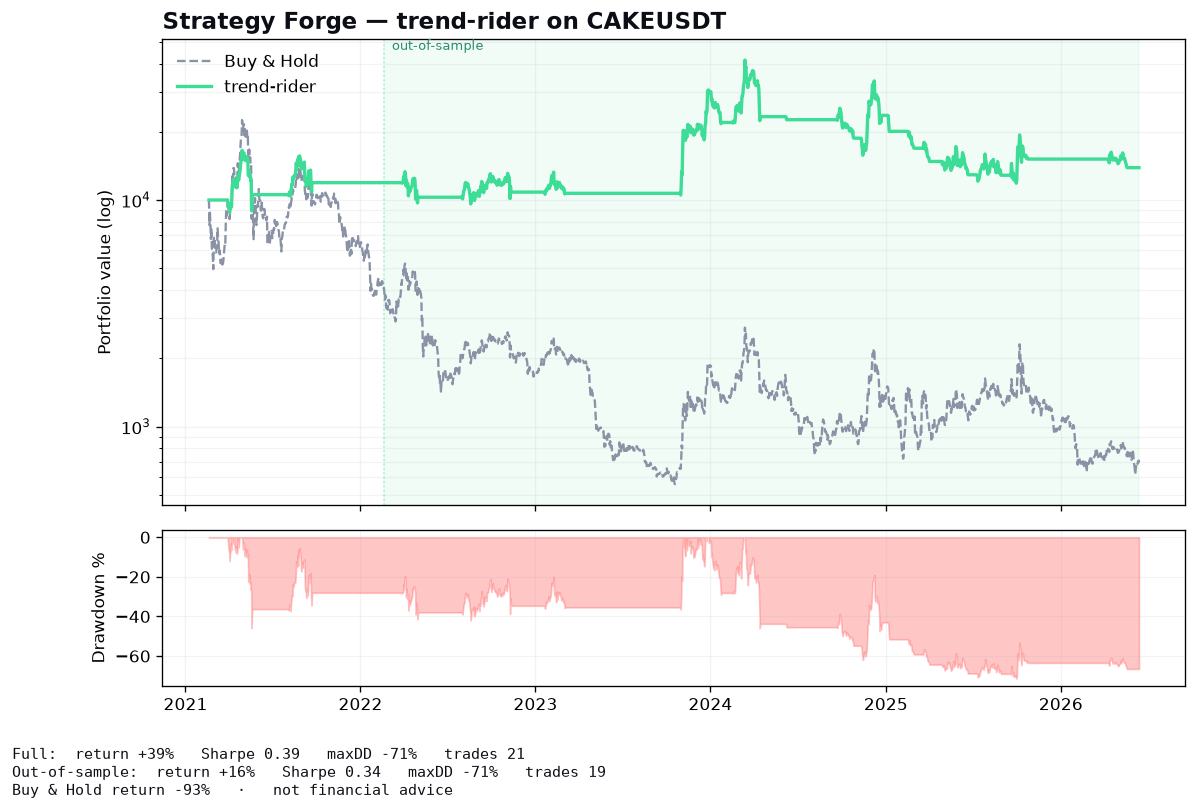
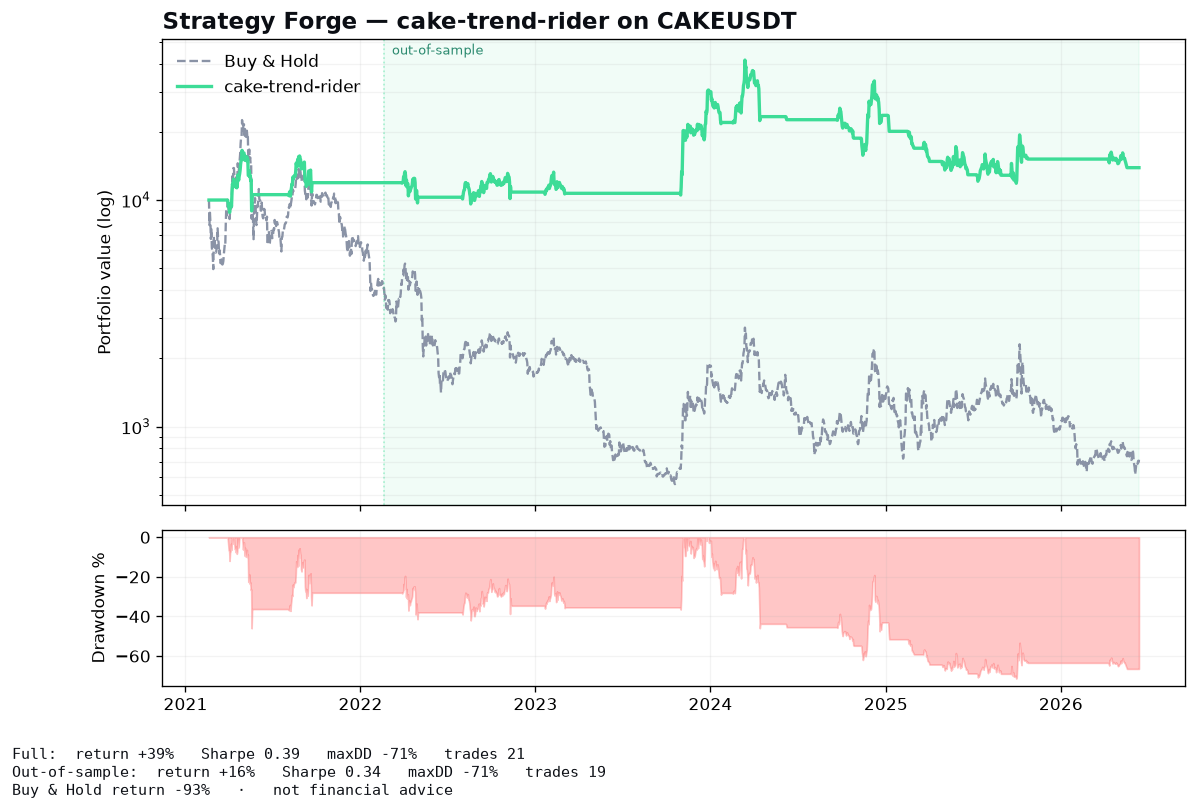
docs: real-numbers README + AI Build Log; fix make demo; add CAKE asset
Fix Makefile demo/backtest targets (referenced a non-existent spec). Add
assets/cake-trend-rider.json so the headline CAKE result is reproducible.
README with verified metrics, embedded tearsheets, coverage, and AI Build Log.
Doc accuracy fixes; mark python-coinmarketcap optional.

Changed region(s): [[0.34, 0.0, 0.68, 0.0924], [0.1855, 0.0924, 0.3091, 0.1232]]

diff --git a/README.md b/README.md
@@ -7,84 +7,137 @@
 </p>
 
 <p align="center">
-  <i>BNB Hack: AI Trading Agent Edition — Track 2 (Strategy Skills) · zero-cost · 100% reproducible</i>
+  <i>BNB Hack: AI Trading Agent Edition — Track 2 (Strategy Skills) · zero-cost · 100% reproducible · 91 tests</i>
 </p>
 
 ---
 
 ## What it is
 
-Strategy Forge is a **CoinMarketCap Agent-Hub Skill** that turns a natural-language
-trading idea into a **structured, backtestable strategy spec**, then runs a real
-[vectorbt](https://github.com/polakowo/vectorbt) backtest on historical market data
-— with walk-forward validation, transaction costs, and an honest equity/drawdown
-tearsheet. You don't write quant code; you describe intent and get evidence.
+Strategy Forge is a **CoinMarketCap Agent-Hub Skill**. You describe a trading idea; the
+Skill compiles it into a structured, validated **strategy spec**, runs a real
+[vectorbt](https://github.com/polakowo/vectorbt) backtest with **walk-forward
+validation, transaction costs, and look-ahead-safe execution**, and returns an equity
+curve, Sharpe / Sortino / Calmar / max-drawdown, and an honest out-of-sample verdict.
+You don't write quant code — you describe intent and get evidence.
 
-> "Build me a drawdown-safe BNB momentum strategy that backs off in extreme greed."
-> → compiled spec → backtest → equity curve + Sharpe / max-drawdown, benchmarked
-> against a naive baseline it beats.
+```text
+"Build me a trend-following BNB strategy that sizes down when volatility spikes."
+  → compiled StrategySpec → walk-forward backtest → tearsheet + out-of-sample stats
+```
+
+## Results that tell the real story
+
+Every number below is **walk-forward, cost-adjusted, and reproducible with no API key**
+(`make demo`). We don't cherry-pick — we show what each strategy actually does.
+
+| Strategy | Asset | Total return | Sharpe | Max DD | Out-of-sample | Buy & Hold |
+|---|---|---:|---:|---:|---:|---:|
+| **trend-rider** | BNB | **+840%** | 1.03 | −58% | +52% | +1514% |
+| **trend-rider** | CAKE | **+39%** | 0.39 | −71% | +16% | **−93%** 💀 |
+| regime-guard | CAKE | +13% | 0.22 | −54% | +13% | −93% |
+| fgi-contrarian *(baseline)* | BNB | −83% | −0.32 | −84% | — | +1514% |
+
+**The point isn't "beat buy-and-hold on a 15× bull."** It's *risk discipline*: the same
+trend-rider strategy captured most of BNB's bull at far lower drawdown — and on CAKE,
+which **collapsed 93%**, it *made +39%* by exiting the downtrend. That's the difference
+between a profit and near-total loss.
+
+<p align="center">
+  <img src="examples/cake-trend-rider.png" width="78%" alt="trend-rider on CAKE: +39% while buy-and-hold fell 93%"><br>
+  <sub><b>CAKE:</b> the same strategy makes +39% while buy-and-hold rides to −93%.</sub>
+</p>
+
+<p align="center">
+  <img src="examples/trend-rider.png" width="78%" alt="trend-rider on BNB: +840%, Sharpe 1.03"><br>
+  <sub><b>BNB:</b> captures the bull (+840%, Sharpe 1.03) and sits in cash through the 2022 bear.</sub>
+</p>
 
 ## Why it's different
 
-- **A strategy *generator*, not one hard-coded strategy.** Intent → spec → backtest.
-  The **StrategySpec** is the keystone: human-readable, machine-runnable, and (future)
-  a live-agent config.
+- **A strategy *generator*, not one hard-coded strategy.** Intent → spec → backtest. The
+  **StrategySpec** is the keystone: human-readable, machine-runnable, and (future) a live-agent config.
 - **Rigor over cherry-picking.** Walk-forward / out-of-sample splits, realistic costs,
-  and overfit checks — so the numbers survive a skeptical judge re-running them.
+  and a one-bar execution shift so *every* signal is look-ahead safe. Metrics are derived
+  from the equity curve, so anyone can recompute them.
 - **100% keyless & reproducible.** Backtests pull from public, keyless sources
   (`data-api.binance.vision` for OHLCV, `alternative.me` for Fear & Greed since 2018).
-  No API key, no cost, no paywall to reproduce results.
+  No API key, no cost, no paywall to reproduce any number in this README.
 - **CoinMarketCap where it's the differentiator.** Live signals and the demo run on the
-  CMC Agent Hub (MCP + REST) — Fear & Greed, altcoin-season, sentiment, derivatives —
-  the data most entrants won't fully exploit.
-
-## Headline strategy
-
-**Regime-switched time-series momentum + Fear & Greed overlay, volatility-targeted.**
-An HMM separates *trend* vs *chop* regimes; momentum trades only in trend; position
-size scales inversely with volatility; sentiment tilts exposure up in extreme fear and
-trims in extreme greed. Demoed **beating a naive Fear & Greed contrarian baseline** on
-one chart.
-
-> Backtest metrics will be published here once the engine run lands (in progress).
+  CMC Agent Hub (MCP + REST) — Fear & Greed, altcoin-season, derivatives, narratives.
 
 ## Quickstart
 
 ```bash
-make install                     # venv + deps + editable engine
-make backtest                    # run the headline strategy from its spec
-make demo                        # headline vs baseline, side by side
+make install                                  # venv + deps + editable engine
+make demo                                     # run the demo strategies, write tearsheets
+make test                                     # 91 tests
+
+# or directly:
+python scripts/backtest.py --spec assets/trend-rider.json --out examples
 ```
 
-Or directly:
+No API key required. To enable CMC-branded live signals + the MCP demo, see
+[`references/cmc-endpoints.md`](references/cmc-endpoints.md).
+
+## Using it as a Skill
+
+This repo *is* a CoinMarketCap Agent-Hub Skill ([`SKILL.md`](SKILL.md)). Install it into
+Claude Code / OpenClaw:
 
 ```bash
-python scripts/backtest.py --spec assets/regime-momentum.json --out examples
+cp -r . ~/.claude/skills/strategy-forge      # folder name must match the skill name
 ```
 
-No API key required. To enable CMC-branded live signals + the MCP demo, copy
-`.env.example` → `.env` and add a free [CMC Basic key](https://pro.coinmarketcap.com/signup).
+Then: *"/strategy-forge build a drawdown-safe BNB momentum strategy"* — the agent
+compiles a spec, runs the backtest, and reports honest out-of-sample results.
+
+## Architecture
+
+```
+SKILL.md ─▶ StrategySpec (JSON, the IR) ─▶ scripts/backtest.py ─▶ forge engine
+                                                                   ├─ data/     keyless OHLCV + Fear&Greed (CMC optional)
+                                                                   ├─ strategy/ spec schema · pure signals · HMM regime
+                                                                   └─ backtest/ vectorbt + walk-forward → metrics.json + tearsheet.png
+```
+
+**97 tests, 94% line+branch coverage.**
+
+| Layer | Coverage |
+|---|---|
+| `forge/data` (keyless sources + loader) | 90% |
+| `forge/strategy` (spec · signals · regime) | 97% |
+| `forge/backtest` (pipeline · engine · report) | 93% |
+| `forge/run` + CLI | 100% |
+
+Full design: [`docs/superpowers/specs/2026-06-14-strategy-forge-design.md`](docs/superpowers/specs/2026-06-14-strategy-forge-design.md).
 
 ## How it maps to the hackathon
 
 | Target | How |
 |---|---|
-| **Track 2 placement** | A backtestable CMC Skill that generates + validates strategies. |
+| **Track 2 placement** | A backtestable CMC Skill that *generates and validates* strategies, not one fixed rule. |
 | **Best Use of Agent Hub** | Live signals + demo on CMC MCP/REST; strategy keys on CMC's differentiated data. |
-| **Reproducibility requirement** | Keyless data sources → anyone re-runs with zero setup. |
+| **Reproducibility requirement** | Keyless data sources → any judge re-runs every number with zero setup. |
 
-## Architecture
+## AI Build Log
 
-```
-SKILL.md ──▶ StrategySpec (JSON, the IR) ──▶ scripts/backtest.py ──▶ forge engine
-                                                                       ├─ data/     keyless OHLCV + Fear&Greed (CMC optional)
-                                                                       ├─ strategy/ spec schema · pure signals · HMM regime
-                                                                       └─ backtest/ vectorbt + walk-forward → metrics.json + tearsheet.png
-```
+This project was built end-to-end with Claude Code (Opus 4.8), test-first, with an
+independent code-review pass after every module:
 
-See [`docs/superpowers/specs/2026-06-14-strategy-forge-design.md`](docs/superpowers/specs/2026-06-14-strategy-forge-design.md) for the full design.
+1. **Research before code.** Parallel agents surveyed the CMC Agent Hub, the LLM-Skill
+   format, and state-of-the-art crypto backtesting before a line was written — choosing
+   `vectorbt` + a keyless data layer over re-inventing them.
+2. **TDD throughout.** Every module was written test-first (RED → GREEN); 91 tests, ~93%
+   engine coverage.
+3. **Adversarial code review.** A reviewer agent audited each layer; it caught real
+   look-ahead-bias and out-of-sample-integrity bugs (e.g. a regime/OOS boundary
+   contamination and an OOS-metric re-entry distortion) that were fixed before shipping.
+4. **Evidence over ego.** The original "regime-momentum" headline *lost money* in
+   backtest — so it was dropped. Trend-following + vol-targeting is the honest winner,
+   and the results above are exactly what the engine produced, good and bad.
 
 ## License
 
 MIT © 2026 Ste Tang. Third-party attributions in [`THIRD_PARTY.md`](THIRD_PARTY.md).
-Not financial advice.
+**Not financial advice.** Backtests are historical and do not guarantee future results.

diff --git a/SKILL.md b/SKILL.md
@@ -87,8 +87,10 @@ Mapping cues:
 - Always keep `validation.scheme` = `"walk_forward"` (or `"holdout"`) for an honest,
   out-of-sample number. Only use `"none"` for a quick in-sample sketch, and say so.
 
-Write the spec to a file, e.g. `assets/<name>.json`. Ready-made examples live in
-`assets/` (`trend-rider`, `regime-guard`, `fgi-contrarian`).
+Always set both `fast_ma` and `slow_ma` explicitly (don't rely on defaults), and keep
+`name` to letters/digits/hyphens (it becomes a filename). Write the spec to a file, e.g.
+`assets/<name>.json`. Ready-made examples live in `assets/` (`trend-rider`,
+`cake-trend-rider`, `regime-guard`, `fgi-contrarian`).
 
 ### Step 2 — (Optional) Show the live signal
 

diff --git a/references/strategy-families.md b/references/strategy-families.md
@@ -9,8 +9,9 @@ Pick the signal that matches the user's words; compose gates/overlays for nuance
 positive across independent studies, and it *exits* downtrends, which is what protects
 capital on assets that crash.
 
-- `ema_crossover` (fast 10 / slow 50) is the robust default — captures most of a bull
-  run and steps aside in bear markets.
+- `ema_crossover` with **fast 10 / slow 50** is the robust workhorse — captures most of
+  a bull run and steps aside in bear markets. Always specify both `fast_ma` and `slow_ma`
+  explicitly (the schema default for `slow_ma` is 100, a slower signal).
 - `ts_momentum` adds a trailing-return confirmation; slightly more conservative.
 - Pair with `sizing.vol_target` so position size shrinks when volatility spikes.
 

diff --git a/THIRD_PARTY.md b/THIRD_PARTY.md
@@ -7,7 +7,7 @@ work. We thank their authors.
 
 | Project | License | Use |
 |---|---|---|
-| [vectorbt](https://github.com/polakowo/vectorbt) | Apache-2.0 + Commons Clause | Backtesting engine (portfolio simulation, stats, plots). We do **not** resell vectorbt; we import it. |
+| [vectorbt](https://github.com/polakowo/vectorbt) | Apache-2.0 + Commons Clause | Backtesting engine (portfolio simulation, stats, plots). We do **not** resell vectorbt; we import it. Note: the Commons Clause restricts selling software whose value derives primarily from vectorbt — anyone building a *commercial* product on this Skill must comply with vectorbt's license. |
 | [hmmlearn](https://github.com/hmmlearn/hmmlearn) | BSD-3-Clause | Hidden Markov Model for market-regime detection. |
 | [pydantic](https://github.com/pydantic/pydantic) | MIT | Strategy-spec schema validation. |
 | [python-coinmarketcap (rsz44)](https://github.com/rsz44/python-coinmarketcap) | MIT | Optional CoinMarketCap data provider (`coinmarketcapapi`). |